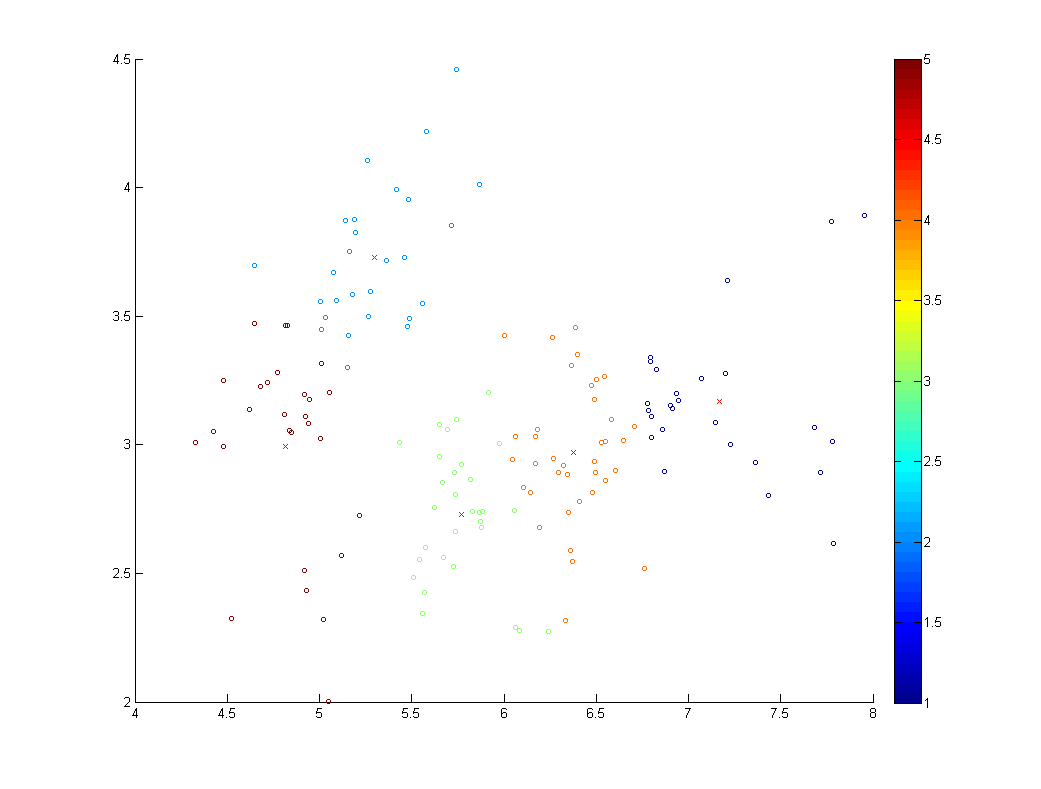
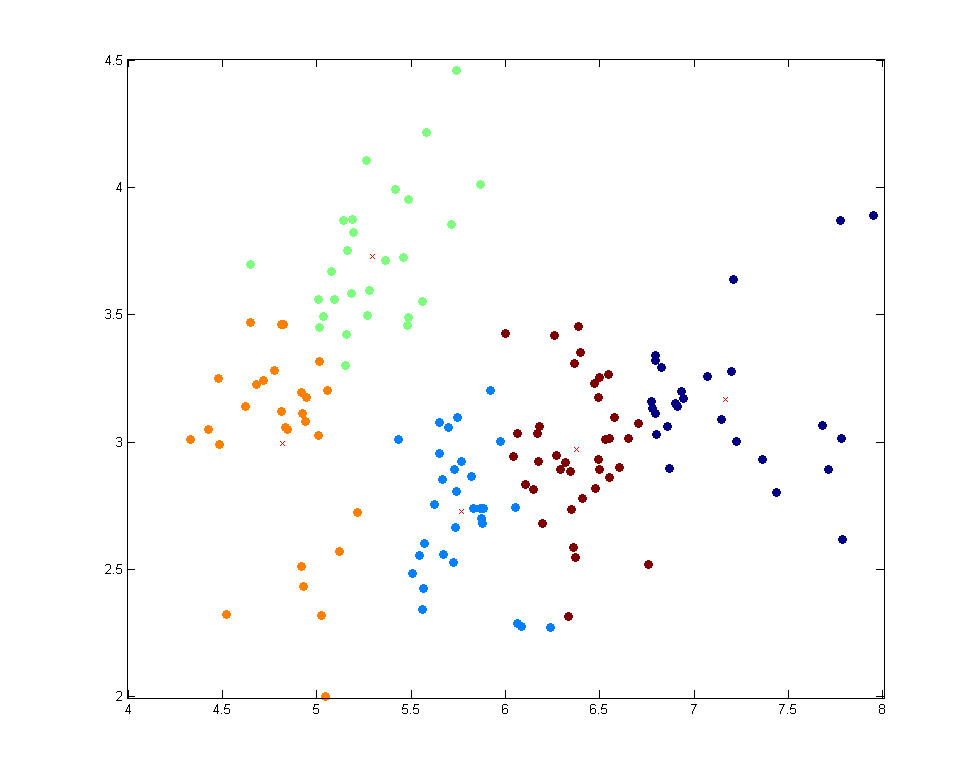
updated k-Means graphs

diff --git a/Homework5/HW5/prob1.m b/Homework5/HW5/prob1.m
@@ -16,7 +16,10 @@ k=20;
 [z,c,~] = kmeans(X,k);
 
 figure
-scatter(X(:,1),X(:,2),20,z); %plot the data points
-colorbar
+plotClassify2D([],X,z)
 hold on
 plot(c(:,1),c(:,2),'rx');
+
+%%
+
+
